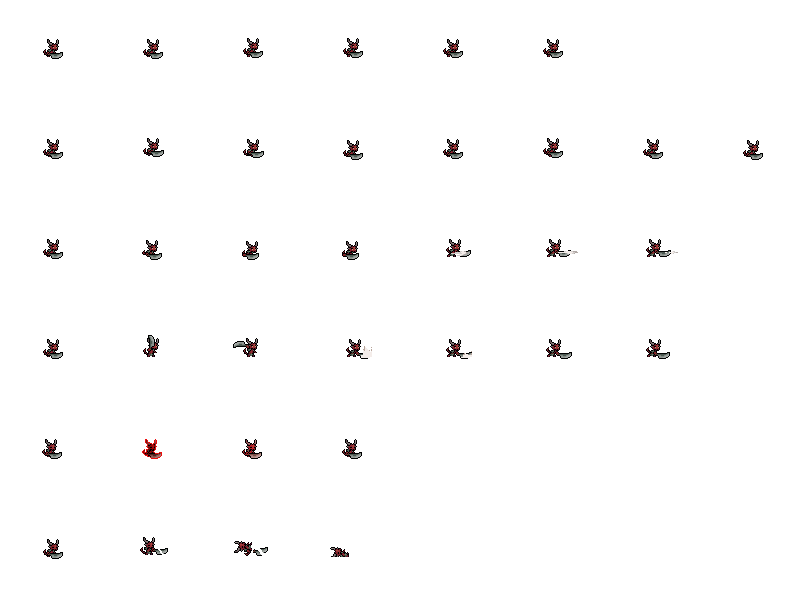
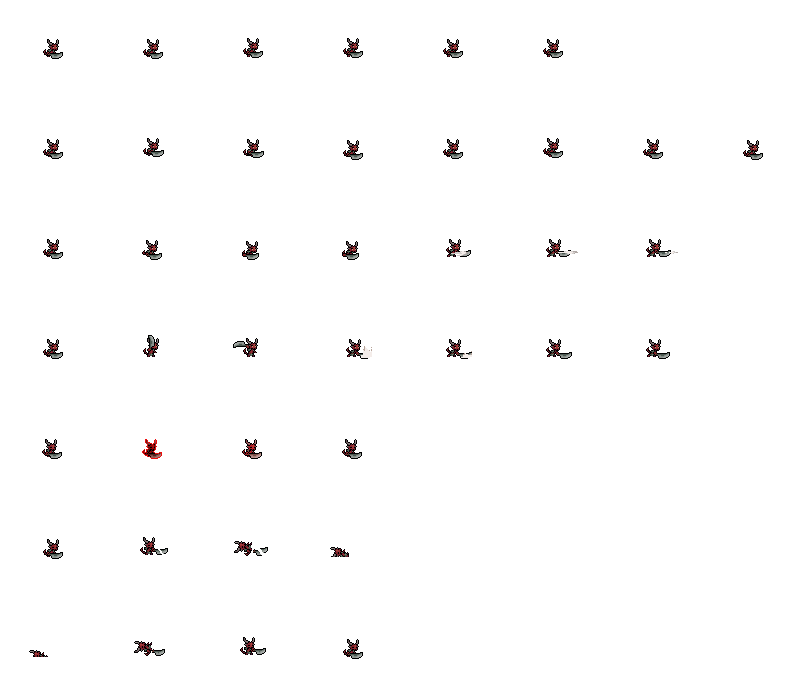
Added spawn state to enemy

diff --git a/src/entities/SmallDemon.py b/src/entities/SmallDemon.py
@@ -5,15 +5,23 @@ import pygame
 import settings
 from src.entities.DamageNumber import DamageNumber
 from src.entities.Entity import Entity
-from src.entities.enemy_states import AttackState, DeadState, FollowState, HurtState, IdleState
+from src.entities.enemy_states import (
+    AttackState,
+    DeadState,
+    FollowState,
+    HurtState,
+    IdleState,
+    SpawnState,
+)
 
 
 class SmallDemon(Entity):
-    """Ground enemy using assets/graphics/small-demon.png. Chases target
-    horizontally (FollowState) and attacks once it's close enough
-    (AttackState), pausing after the attack before resuming the chase.
-    Falls back to IdleState if it has no target. take_damage() interrupts
-    whatever it's doing to play HurtState, or DeadState once hp runs out.
+    """Ground enemy using assets/graphics/small-demon.png. Emerges via
+    SpawnState, then chases target horizontally (FollowState) and attacks
+    once it's close enough (AttackState), pausing after the attack before
+    resuming the chase. Falls back to IdleState if it has no target.
+    take_damage() interrupts whatever it's doing to play HurtState, or
+    DeadState once hp runs out.
     """
 
     # Matches the creature's actual silhouette within its padded 100x100
@@ -41,6 +49,7 @@ class SmallDemon(Entity):
             "small_demon",
             level,
             states={
+                "spawn": lambda sm: SpawnState(self, sm),
                 "idle": lambda sm: IdleState(self, sm),
                 "follow": lambda sm: FollowState(self, sm),
                 "attack": lambda sm: AttackState(self, sm),
@@ -53,13 +62,14 @@ class SmallDemon(Entity):
                 "attack": {"frames": list(range(24, 31)), "interval": 0.08, "loops": 1},
                 "hurt": {"frames": list(range(32, 36)), "interval": 0.1, "loops": 1},
                 "dead": {"frames": list(range(40, 44)), "interval": 0.15, "loops": 1},
+                "spawn": {"frames": list(range(48, 52)), "interval": 0.1, "loops": 1},
             },
         )
         self.sprite_offset = (42, 37)
         self.max_hp = settings.DEMON_MAX_HP
         self.hp = self.max_hp
         self.target = target
-        self.change_state("follow" if target is not None else "idle")
+        self.change_state("spawn")
 
     def take_damage(self, amount: int) -> None:
         """Reacts to incoming damage - see src.entities.player_states.

diff --git a/src/states/PlayState.py b/src/states/PlayState.py
@@ -32,23 +32,30 @@ class PlayState(BaseState):
         self.camera.x, self.camera.y = self.player.x, self.player.y
         self.camera.update(0)
 
-        self._spawn_demon_near_player()
+        # 0 rather than DEMON_SPAWN_INTERVAL so the first demon spawns on
+        # the very first update() tick instead of after a cold wait.
+        self.spawn_timer = 0.0
 
         self.hud = HUD(self.player)
 
-    def _spawn_demon_near_player(self) -> None:
-        tile_width = self.level.tilemap.tile_width
-        half_view_cols = int((settings.VIRTUAL_WIDTH / 2) // tile_width)
-        player_col = int(self.player.x // tile_width)
-        min_col = max(0, player_col - half_view_cols)
-        max_col = min(self.level.tilemap.cols - 1, player_col + half_view_cols)
-        # Stay clear of the player's own column so it doesn't spawn on top
-        # of them, but still within the camera's current view.
-        candidate_cols = [
-            col for col in range(min_col, max_col + 1) if abs(col - player_col) >= 3
-        ]
+    def _spawn_demon(self) -> None:
+        active_demons = sum(
+            1 for entity in self.level.entities if isinstance(entity, SmallDemon)
+        )
+        if active_demons >= settings.DEMON_MAX_ACTIVE:
+            return
 
-        spawn_col = random.choice(candidate_cols) if candidate_cols else player_col
+        tile_width = self.level.tilemap.tile_width
+        player_col = int(self.player.x // tile_width)
+        distance = random.randint(
+            settings.DEMON_SPAWN_MIN_DISTANCE_TILES,
+            settings.DEMON_SPAWN_MAX_DISTANCE_TILES,
+        )
+        direction = random.choice((-1, 1))
+        spawn_col = max(
+            0, min(self.level.tilemap.cols - 1, player_col + direction * distance)
+        )
+
         row = self.level.ground_row(spawn_col)
         if row is None:
             return
@@ -67,6 +74,11 @@ class PlayState(BaseState):
     def update(self, dt: float) -> None:
         self.camera.update(dt)
         self.level.update(dt)
+
+        self.spawn_timer -= dt
+        if self.spawn_timer <= 0:
+            self.spawn_timer = settings.DEMON_SPAWN_INTERVAL
+            self._spawn_demon()
 
     def render(self, surface: pygame.Surface) -> None:
         self.level.render(surface, self.camera)

diff --git a/settings.py b/settings.py
@@ -94,6 +94,15 @@ DEMON_ATTACK_COOLDOWN = 0.6
 DEMON_ATTACK_DAMAGE = 10
 DEMON_MAX_HP = 40
 
+# Periodic random spawning - src.states.PlayState._spawn_demon. Every
+# DEMON_SPAWN_INTERVAL seconds, one demon spawns on solid ground somewhere
+# between MIN and MAX tile columns away from the player (randomly to
+# either side), as long as fewer than DEMON_MAX_ACTIVE are already alive.
+DEMON_SPAWN_INTERVAL = 4.0
+DEMON_SPAWN_MIN_DISTANCE_TILES = 4
+DEMON_SPAWN_MAX_DISTANCE_TILES = 10
+DEMON_MAX_ACTIVE = 5
+
 # Overhead enemy health bar (src/ui/health_bar.py, drawn from
 # src.map.Level.render for any entity with SHOW_HEALTH_BAR = True) - only
 # rendered while hp < max_hp, red fill per the design ask.
@@ -151,8 +160,9 @@ TEXTURES = {
 # }
 FRAMES = {
     "marze": frames.generate_frames(TEXTURES["marze"], 32, 32),
-    # 800x600, 8 cols x 6 rows of 100x100 cells. Row-major frame indices:
-    # idle 0-5, run 8-15, (unused) 16-22, attack 24-30, hurt 32-35, dead 40-43.
+    # 800x700, 8 cols x 7 rows of 100x100 cells. Row-major frame indices:
+    # idle 0-5, run 8-15, (unused) 16-22, attack 24-30, hurt 32-35,
+    # dead 40-43, spawn 48-51.
     "small_demon": frames.generate_frames(TEXTURES["small_demon"], 100, 100),
     "marze_abilities": frames.generate_frames(TEXTURES["marze_abilities"], 32, 32),
 }

diff --git a/src/entities/enemy_states/SpawnState.py b/src/entities/enemy_states/SpawnState.py
@@ -1,0 +1,25 @@
+from src.entities.states.BaseEntityState import BaseEntityState
+
+
+class SpawnState(BaseEntityState):
+    """Plays once right after the demon is created (see SmallDemon.__init__)
+    before it starts acting - holds it in place for the animation's natural
+    duration, then hands off to FollowState/IdleState same as before this
+    existed.
+    """
+
+    def enter(self) -> None:
+        self.entity.vx = 0
+        self.entity.change_animation("spawn")
+        animation = self.entity.animations["spawn"]
+        self._duration = animation.size * animation.interval
+        self._elapsed = 0.0
+
+    def update(self, dt: float) -> None:
+        self.entity.vx = 0
+        self._elapsed += dt
+
+        if self._elapsed >= self._duration:
+            self.entity.change_state(
+                "follow" if self.entity.target is not None else "idle"
+            )

diff --git a/src/entities/enemy_states/__init__.py b/src/entities/enemy_states/__init__.py
@@ -3,5 +3,6 @@ from .DeadState import DeadState
 from .FollowState import FollowState
 from .HurtState import HurtState
 from .IdleState import IdleState
+from .SpawnState import SpawnState
 
-__all__ = ["AttackState", "DeadState", "FollowState", "HurtState", "IdleState"]
+__all__ = ["AttackState", "DeadState", "FollowState", "HurtState", "IdleState", "SpawnState"]
